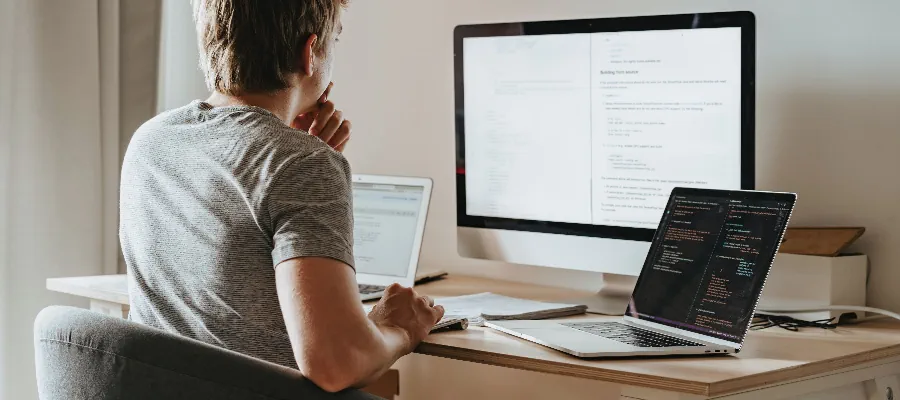
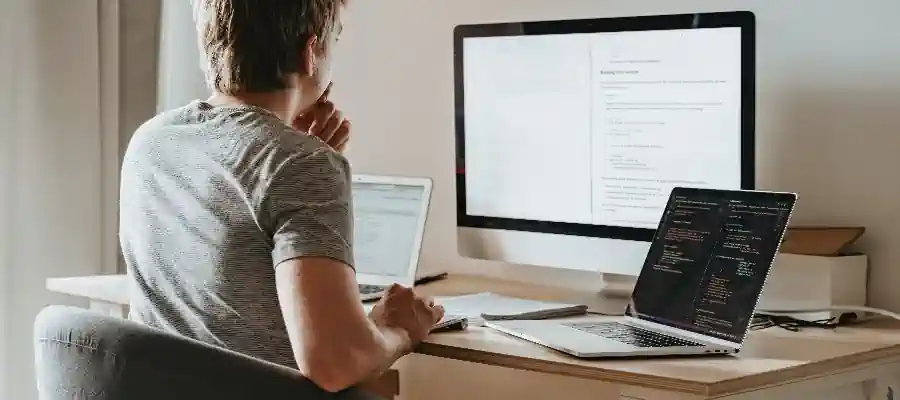
Optimize images

diff --git a/components/courses/lesson/LessonInfo.jsx b/components/courses/lesson/LessonInfo.jsx
@@ -1,7 +1,7 @@
 import Image from "next/image";
 import { DEV_FULLNAME } from "../../../data/dev";
 import { useLang } from "../../../hooks/lang";
-import profilePic from "../../../public/images/dev-profile-xs.jpg";
+import profilePic from "../../../public/images/dev-profile-xs.webp";
 import styles from "./LessonInfo.module.css";
 
 export default function LessonInfo({ readingTime }) {

diff --git a/components/blog/PostInfo.jsx b/components/blog/PostInfo.jsx
@@ -1,7 +1,7 @@
 import Image from "next/image";
 import { DEV_FULLNAME } from "../../data/dev";
 import { useLang } from "../../hooks/lang";
-import profilePic from "../../public/images/dev-profile-xs.jpg";
+import profilePic from "../../public/images/dev-profile-xs.webp";
 import styles from "./PostInfo.module.css";
 
 export default function PostInfo({ date, readingTime }) {

diff --git a/components/home/Hero.jsx b/components/home/Hero.jsx
@@ -1,7 +1,7 @@
 import Image from "next/image";
 import { DEV_FIRSTNAME, DEV_FULLNAME, DEV_LASTNAME } from "../../data/dev";
 import NameLogo from "../ui/NameLogo";
-import profilePic from "../../public/images/dev-profile-sm.jpg";
+import profilePic from "../../public/images/dev-profile-sm.webp";
 import styles from "./Hero.module.css";
 
 export default function Hero() {

diff --git a/components/blog/Author.jsx b/components/blog/Author.jsx
@@ -1,7 +1,7 @@
 import Image from "next/image";
 import { DEV_FULLNAME } from "../../data/dev";
 import { useLang } from "../../hooks/lang";
-import profilePic from "../../public/images/dev-profile-sm.jpg";
+import profilePic from "../../public/images/dev-profile-sm.webp";
 import styles from "./Author.module.css";
 
 export default function Author() {
